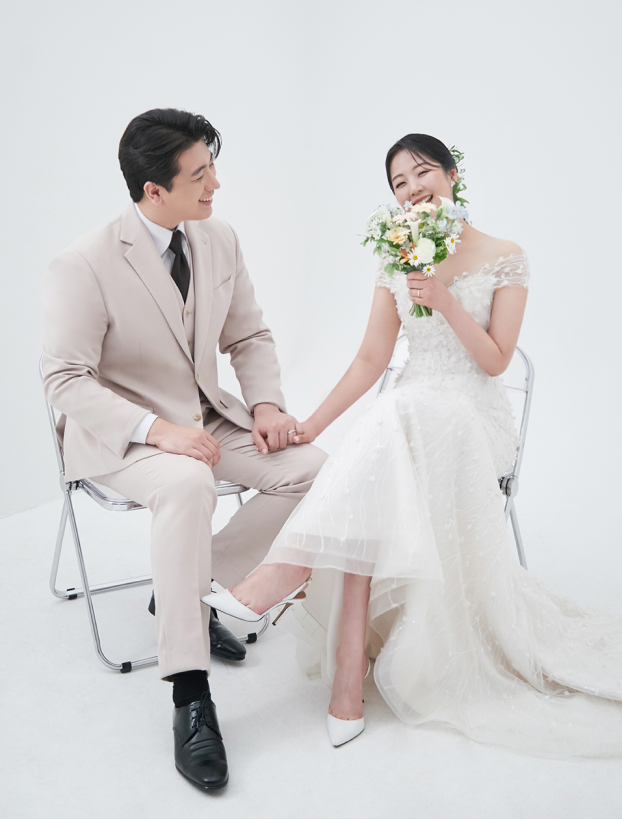
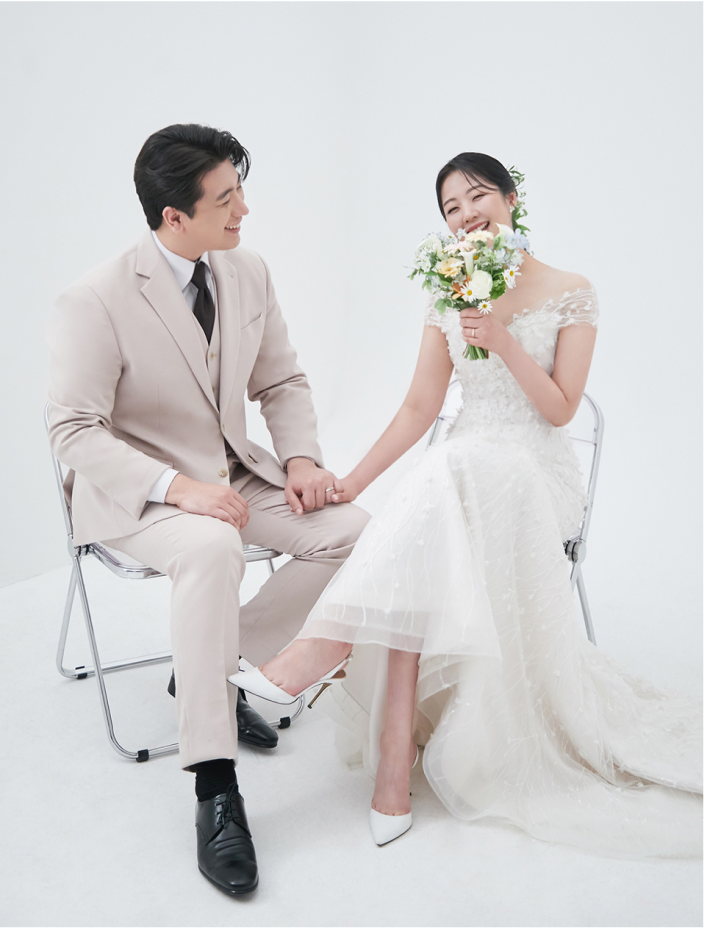
사진수정

diff --git a/index.html b/index.html
@@ -16,7 +16,7 @@
   <meta property="og:url" content="https://mo5.luvle.co.kr" />
   <meta property="og:title" content="심재환 ♥ 안수민의 결혼식에 초대합니다." />
   <meta property="og:description" content="결혼식에 초대합니다♡" />
-  <meta property="og:image" content="https://i.imgur.com/cy81HnO.png" />
+  <meta property="og:image" content="https://i.imgur.com/ob3Fe37.png" />
   <meta property="og:site_name" content="심재환 ♥ 안수민의 결혼식에 초대합니다." />
   <script src="https://cdn.tailwindcss.com"></script>
   <link rel="stylesheet" type="text/css" href="style.css" />

diff --git a/gallery.js b/gallery.js
@@ -48,7 +48,7 @@ window.onload = () => {
       content: {
         title: "심재환 ♥ 안수민의 모바일 청첩장",
         description: "결혼식에 초대합니다♡",
-        imageUrl: "https://i.imgur.com/cy81HnO.png",
+        imageUrl: "https://i.imgur.com/ob3Fe37.png",
         imageWidth: 1200,
         imageHeight: 630,
         link: {

diff --git a/newGallery.js b/newGallery.js
@@ -47,7 +47,7 @@ window.onload = () => {
       content: {
         title: "심재환 ♥ 안수민의 모바일 청첩장",
         description: "결혼식에 초대합니다♡",
-        imageUrl: "https://i.imgur.com/cy81HnO.png",
+        imageUrl: "https://i.imgur.com/ob3Fe37.png",
         imageWidth: 1200,
         imageHeight: 630,
         link: {
